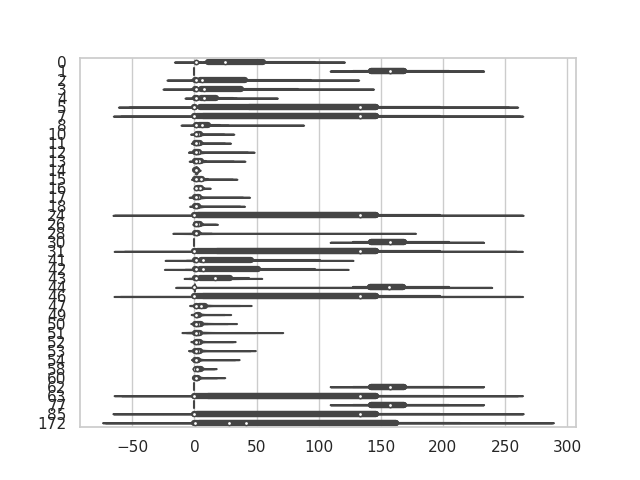
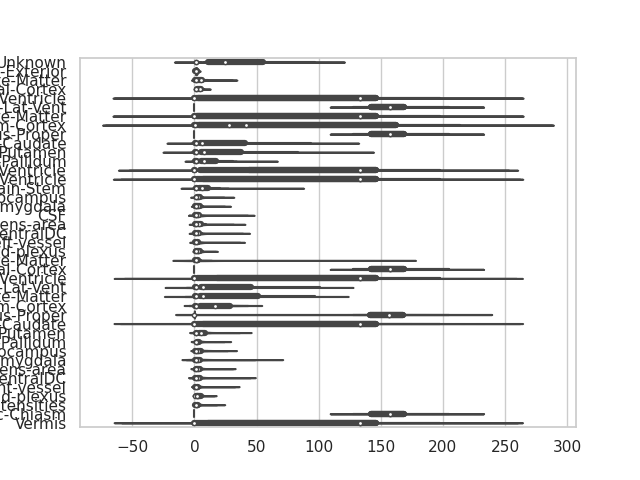
Use region names rather than numbers.

diff --git a/SynthSeg/dcan/paper/generate_metrics.py b/SynthSeg/dcan/paper/generate_metrics.py
@@ -8,6 +8,8 @@ if __name__ == "__main__":
[1 lines of base64/hex data omitted]
     evaluate_results(results_dir)
     measures = ['dice', 'hausdorff', 'hausdorff_95', 'hausdorff_99', 'mean_distance']
-    generate_metrics_csv_files(results_dir, measures)
+    mapping_file = '../../../data/labels_classes_priors/dcan/Freesurfer_LUT_DCAN.md'
+    alternate_mapping_file = '../../../data/labels_classes_priors/dcan/FreeSurferColorLUT.txt'
+    generate_metrics_csv_files(results_dir, measures, mapping_file, alternate_mapping_file)
     append_fold_files(results_dir, measures)
     create_violin_plots(results_dir, measures)

diff --git a/SynthSeg/dcan/paper/create_plots.py b/SynthSeg/dcan/paper/create_plots.py
@@ -10,9 +10,6 @@ def create_violin_plots(results_dir, measures):
     for measure in measures:
         data_file_path = os.path.join(results_dir, f'{measure}.csv')
         df = pd.read_csv(data_file_path)
-        cols = df.columns.tolist()
-        cols = cols[:1] + [str(col) for col in sorted([int(col) for col in cols[1:]])]
-        df = df[cols]
         sns.set(style='whitegrid')
         sns.violinplot(data=df, orient='h')
         plt.savefig(f'../../../img/paper/{measure}.png')
